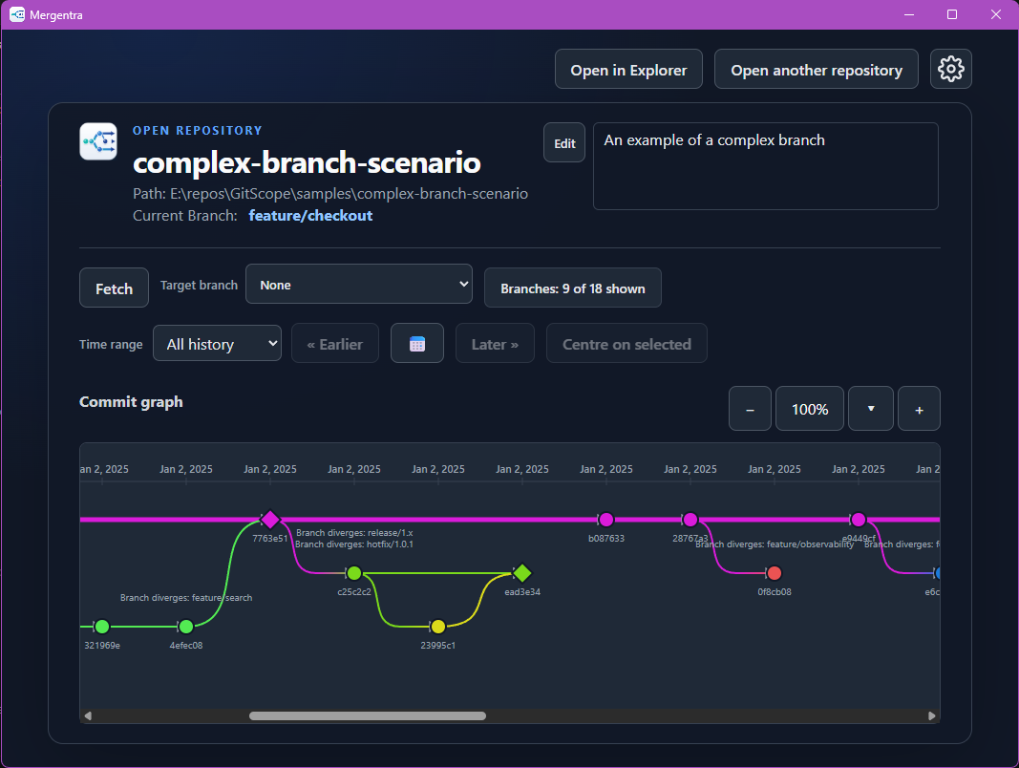
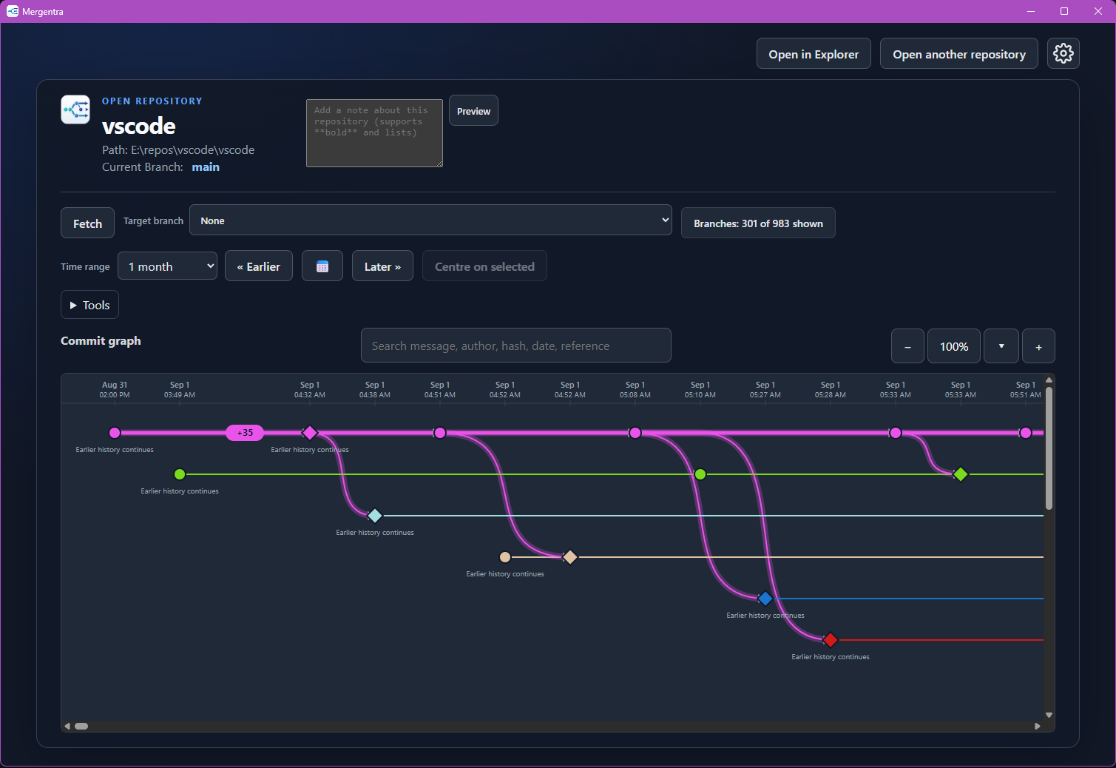
Update the website screenshot (#113)

diff --git a/site/src/app/pages/home.component.ts b/site/src/app/pages/home.component.ts
@@ -117,7 +117,7 @@ import { RouterLink } from '@angular/router';
       <figure class="screenshot-frame">
         <img
           src="assets/mergentra-current.png"
-          alt="Mergentra showing a current target branch graph and Review panel"
+          alt="Mergentra showing the commit graph of a large repository, with coloured branch lanes and merge lines"
           loading="lazy"
         />
         <figcaption>A clear visual map for complicated Git history.</figcaption>
